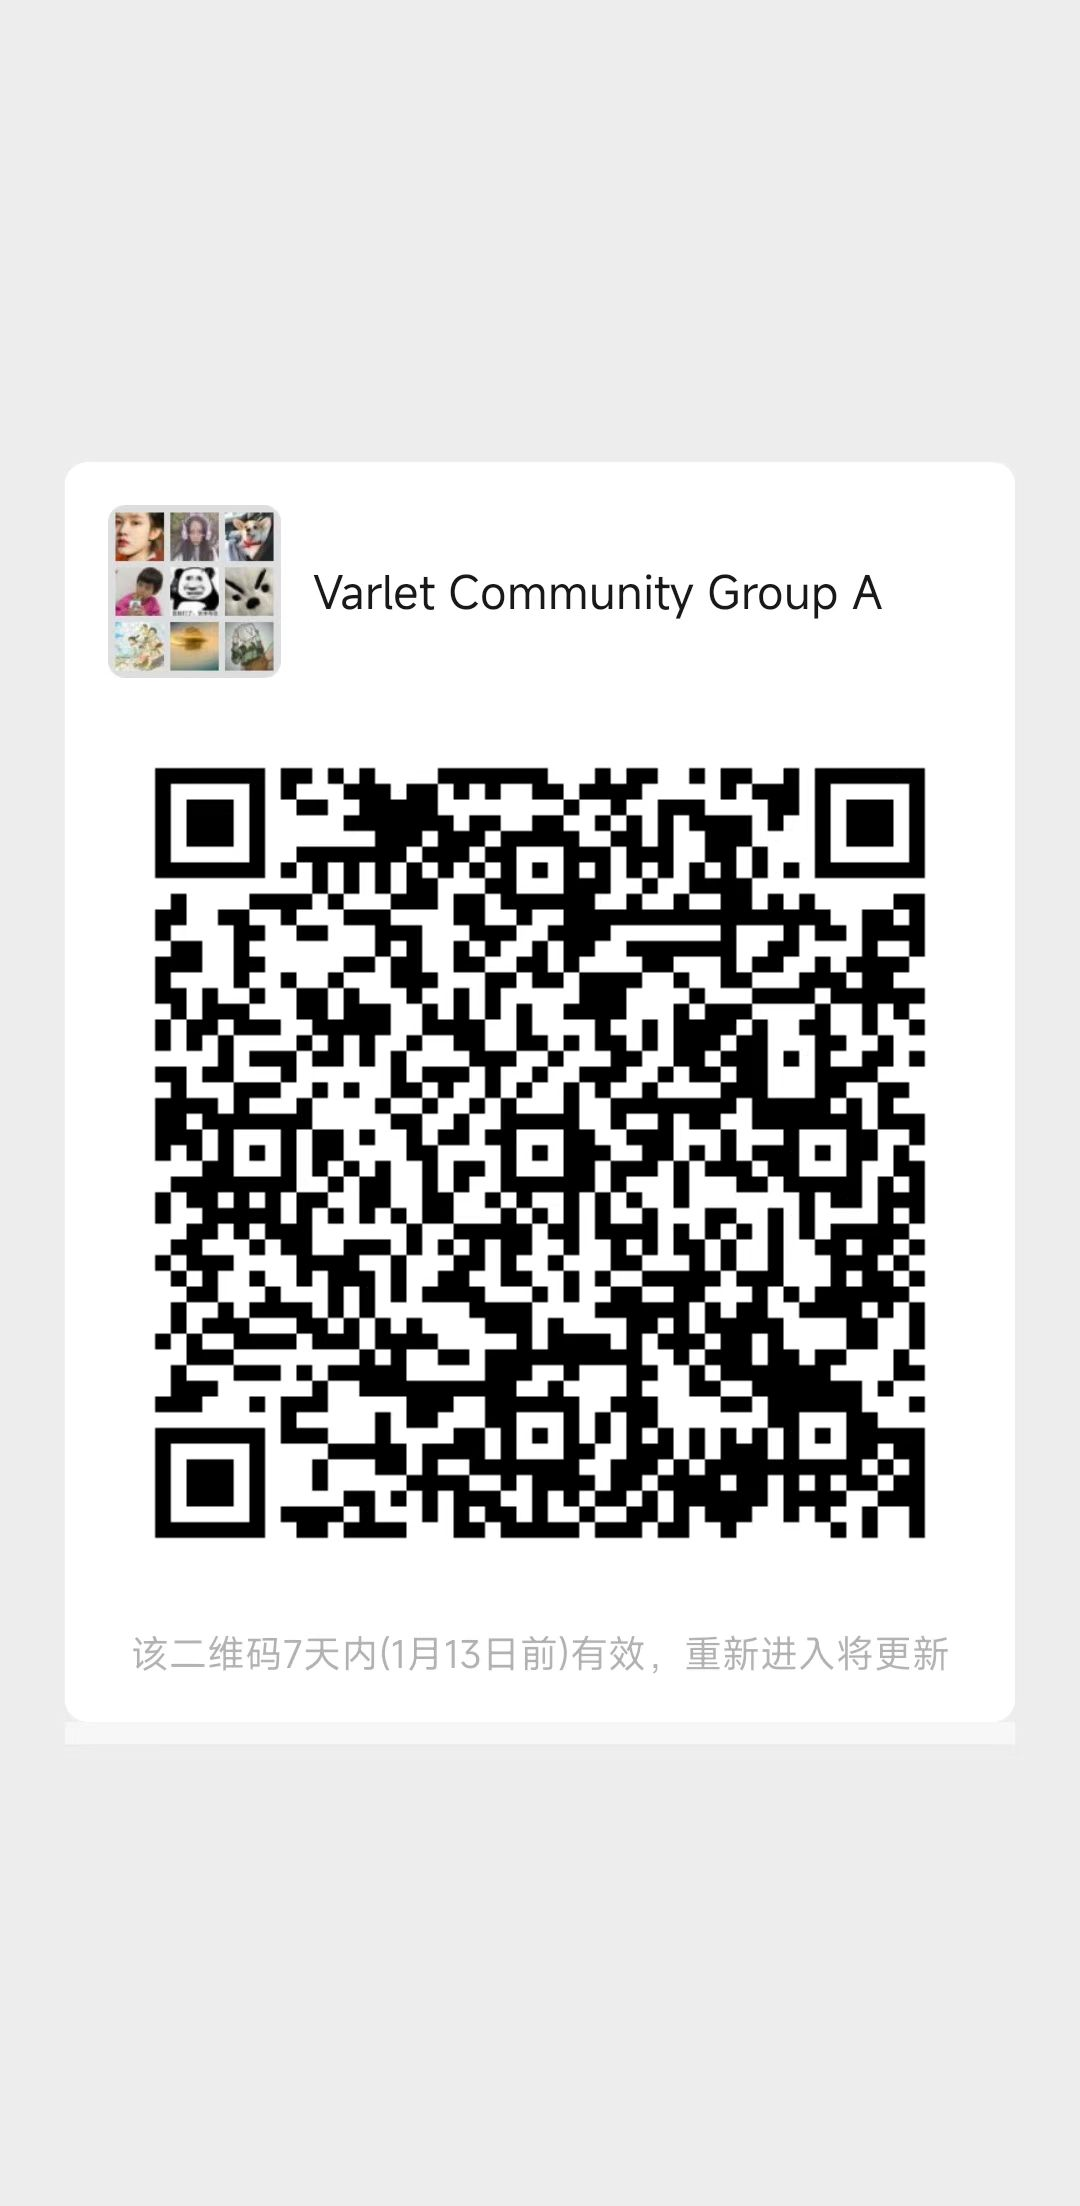
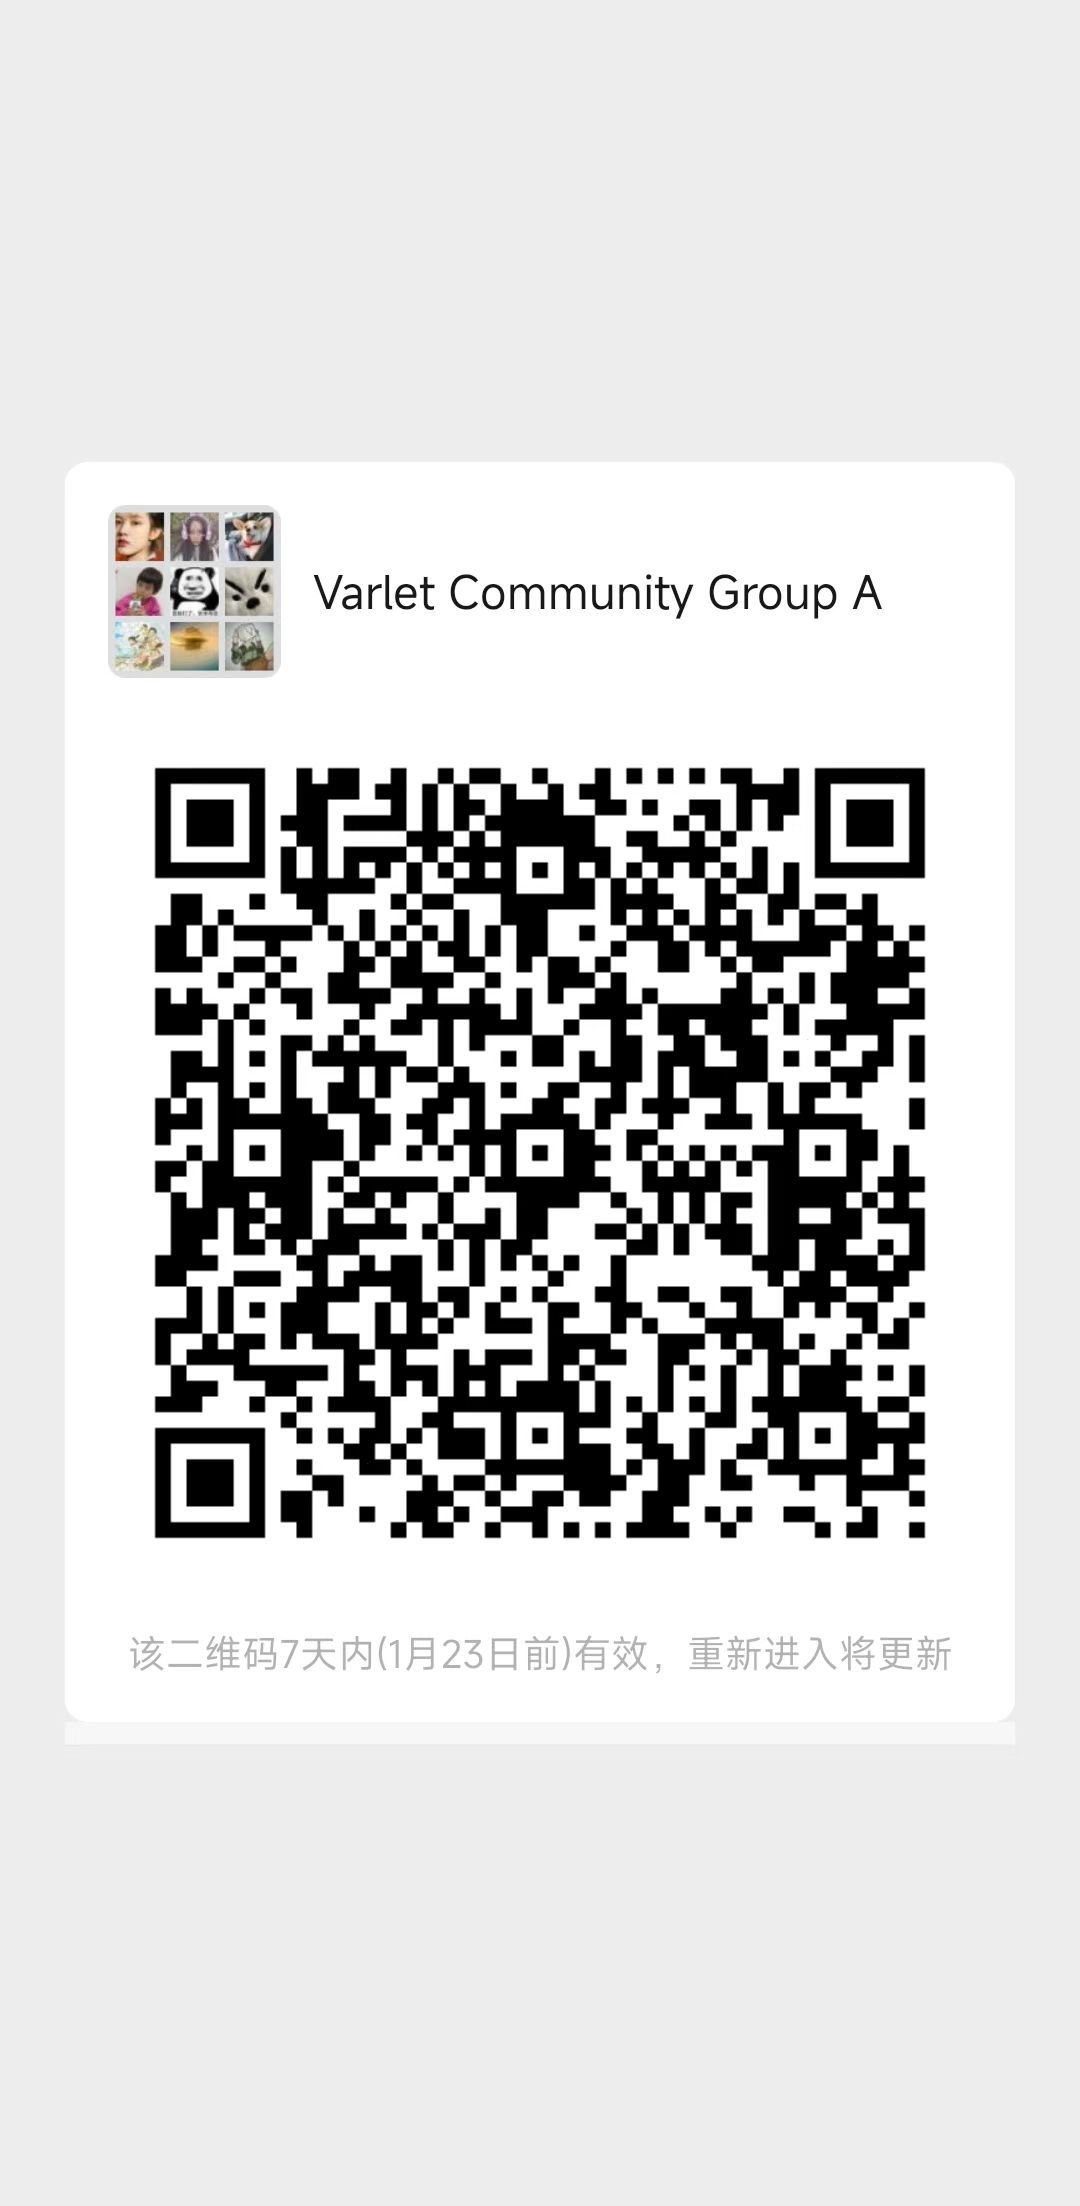
chore: update community qrcode (#837)
* chore: update community qrcode

* fix(ui/appBar): fix title fontSize in appBar

* refactor(ui/appBar): modify appBar style varible

* refactor(ui/appBar): modify appBar style varible name

* chore: update community qrcode

* fix: fix appBar styleName bug

diff --git a/packages/varlet-ui/src/app-bar/appBar.less b/packages/varlet-ui/src/app-bar/appBar.less
@@ -1,6 +1,7 @@
 :root {
   --app-bar-color: var(--color-primary);
   --app-bar-title-padding: 0 12px;
+  --app-bar-title-font-size: var(--font-size-lg);
   --app-bar-text-color: #fff;
   --app-bar-height: 54px;
   --app-bar-left-gap: 6px;
@@ -22,6 +23,7 @@
   transition: background-color 0.25s;
 
   &__title {
+    font-size: var(--app-bar-title-font-size);
     flex: 1;
     display: flex;
     justify-content: center;

diff --git a/packages/varlet-ui/src/app-bar/docs/en-US.md b/packages/varlet-ui/src/app-bar/docs/en-US.md
@@ -108,7 +108,7 @@ Here are the CSS variables used by the component, Styles can be customized using
 | `--app-bar-text-color` | `#fff` |
 | `--app-bar-height` | `54px` |
 | `--app-bar-title-padding` | `0 12px` |
+| `--app-bar-title-font-size` | `var(--font-size-lg)` |
 | `--app-bar-left-gap` | `6px` |
 | `--app-bar-right-gap` | `6px` |
 | `--app-bar-border-radius` | `4px` |
-| `--app-bar-font-size` | `var(--font-size-lg)` |

diff --git a/packages/varlet-ui/src/app-bar/docs/zh-CN.md b/packages/varlet-ui/src/app-bar/docs/zh-CN.md
@@ -108,6 +108,7 @@
 | `--app-bar-text-color`    | `#fff` |
 | `--app-bar-height`        | `54px` |
 | `--app-bar-title-padding` | `0 12px` |
+| `--app-bar-title-font-size` | `var(--font-size-lg)` |
 | `--app-bar-left-gap`      | `6px` |
 | `--app-bar-right-gap`     | `6px` |
 | `--app-bar-border-radius` | `4px` |
